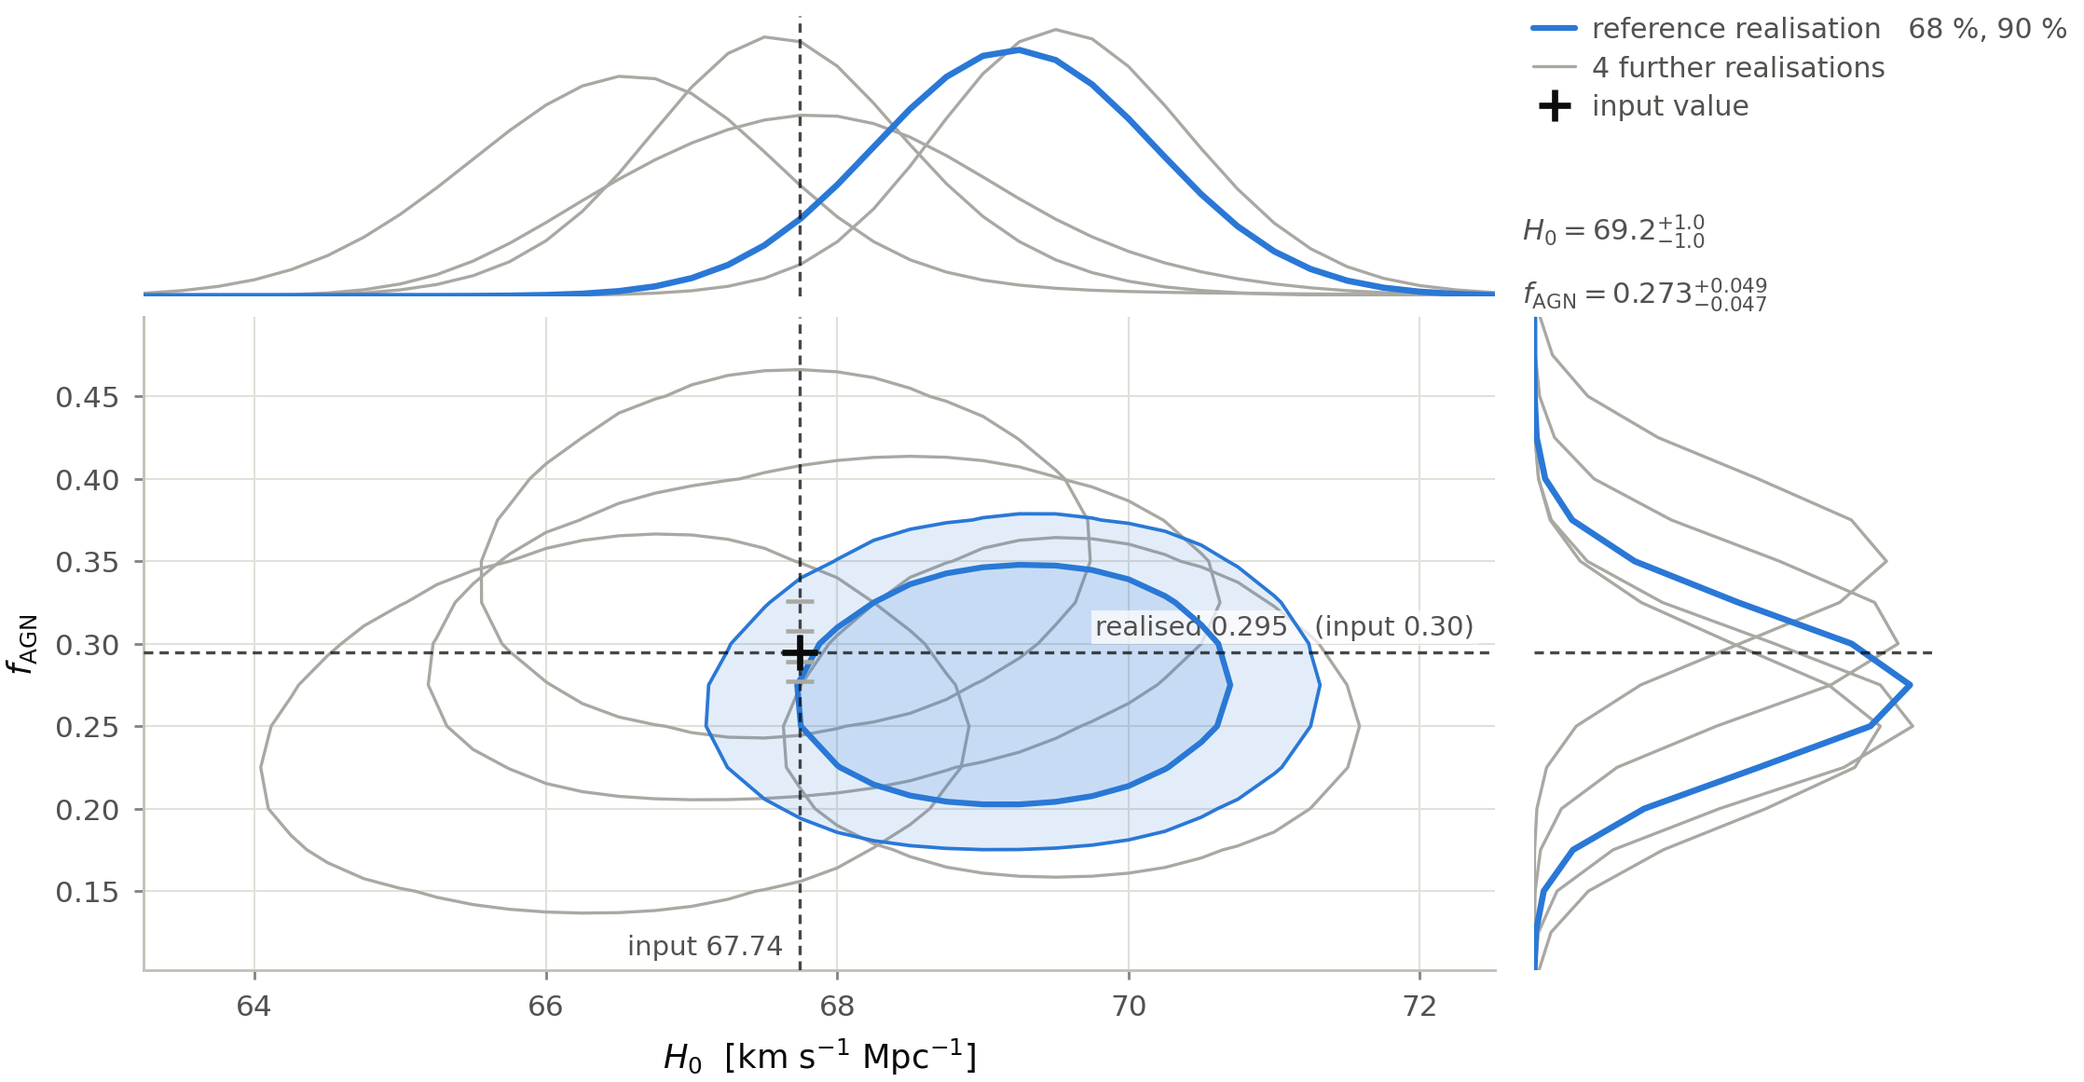
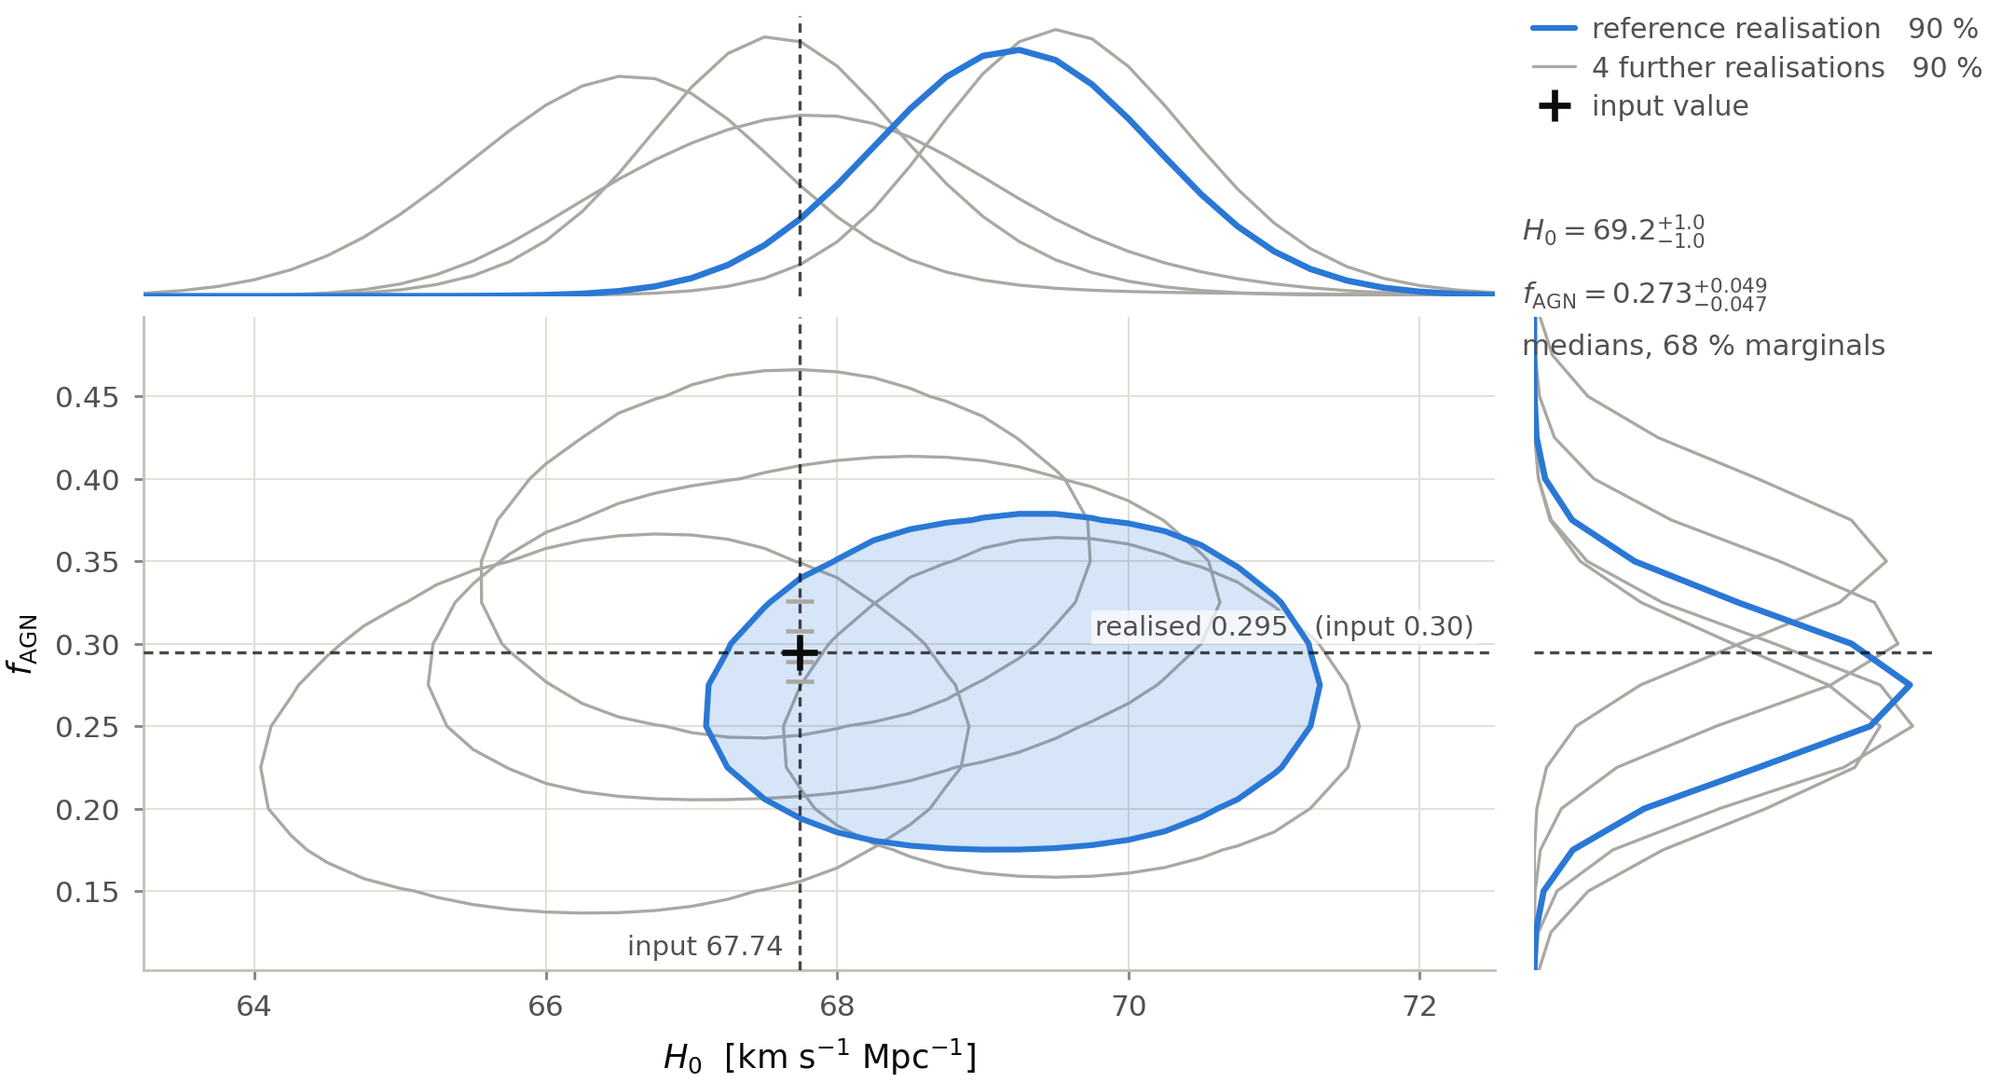
paper: every plotted interval to 90 per cent, and the AAS front matter
Figures 2, 3, 5 and 6 drew 68 per cent intervals against the project's rule
that everything plotted is 90 per cent; only the flux-limited figure complied.

- fig_single_tracer: the shaded galaxy band and its label are the 90 per cent
  interval; the caption quotes the new \HzeroGalNinety rather than the 68 per
  cent macro the text carries.
- fig_joint: one 90 per cent credible region instead of nested 68 and 90 per
  cent regions.  The medians and 68 per cent marginals stay, since the text
  quotes them, and the block now says which level it carries so it cannot be
  read off the contour beside it.
- fig_closure, fig_pure_tracer: per-realisation bars to 90 per cent, and the
  mean-offset bands from one standard error to the 90 per cent interval on the
  mean (Student's t on n - 1 degrees of freedom, 2.13 at five realisations,
  via the new figstyle.t_ppf95).  The mean offset is annotated without its
  standard error, which the captions and the text carry instead.
- captions updated to the levels actually drawn, verified against the renders;
  the width-ratio sentence now names the level its ratio is taken at.
- macro chain: \HzeroGalNinety added, audit re-derives 201 of 201.

Front matter: \shorttitle, acknowledgments, a data-availability statement,
\facility and \software, with dynesty and JAX added to the bibliography.  The
ORCID is left as a commented line for the author: it is recorded nowhere in
this repository and an identifier must not be guessed.

diff --git a/working/paper/scripts/fig_pure_tracer.py b/working/paper/scripts/fig_pure_tracer.py
@@ -28,7 +28,7 @@ below 3e-4 of its own peak and each curve keeps >= 99.99 % of its mass inside,
 so the window crops no support and spends the width on the part of the range
 the data occupy.
 
-Right panel: the same ten measurements as medians with their 68 % intervals,
+Right panel: the same ten measurements as medians with their 90 % intervals,
 against truth, with each tracer's five-realisation mean offset and standard
 error as a band.  The wide galaxy bar on the bimodal realisation is the honest
 rendering of an interval that has to span the gap between two modes.
@@ -111,16 +111,19 @@ def panel_posteriors(ax, curves):
 
 
 def panel_recovery(ax, curves, summary):
-    """Medians and 68 % intervals per realisation, with the mean-offset bands."""
+    """Medians and 90 % intervals per realisation, with the mean-offset bands."""
     x = np.arange(len(fs.SEEDS))
     for tracer, colour, dx, block in (("gal", GAL, -0.13, "closure_gal"),
                                       ("agn", AGN, +0.13, "closure_agn")):
         med = np.array([curves[tracer, s][2]["median"] for s in fs.SEEDS])
-        lo = med - np.array([curves[tracer, s][2]["ci68"][0] for s in fs.SEEDS])
-        hi = np.array([curves[tracer, s][2]["ci68"][1] for s in fs.SEEDS]) - med
+        lo = med - np.array([curves[tracer, s][2]["ci90"][0] for s in fs.SEEDS])
+        hi = np.array([curves[tracer, s][2]["ci90"][1] for s in fs.SEEDS]) - med
         c = summary[block]
-        ax.axhspan(fs.H0_TRUTH + c["mean_offset"] - c["sem_offset"],
-                   fs.H0_TRUTH + c["mean_offset"] + c["sem_offset"],
+        # 90 % interval on the mean offset (Student's t, n - 1 d.o.f.), so the
+        # band carries the same level as the per-realisation bars
+        half = fs.t_ppf95(len(fs.SEEDS)) * c["sem_offset"]
+        ax.axhspan(fs.H0_TRUTH + c["mean_offset"] - half,
+                   fs.H0_TRUTH + c["mean_offset"] + half,
                    color=colour, alpha=0.16, lw=0, zorder=2)
         ax.axhline(fs.H0_TRUTH + c["mean_offset"], color=colour, lw=0.9,
                    zorder=3)
@@ -145,18 +148,18 @@ def panel_recovery(ax, curves, summary):
     ax.legend(handles=[
         Line2D([], [], color=GAL, lw=1.3, marker="o", ms=4.0,
                markeredgecolor="white", markeredgewidth=0.7,
-               label=r"galaxies, median $\pm$ 68 %"),
+               label=r"galaxies, median and 90 %"),
         Line2D([], [], color=AGN, lw=1.3, marker="o", ms=4.0,
                markeredgecolor="white", markeredgewidth=0.7,
-               label=r"AGN, median $\pm$ 68 %"),
+               label=r"AGN, median and 90 %"),
         Line2D([], [], color=fs.TRUTH, lw=0.9, ls=(0, (3, 2)), alpha=0.75,
                label="input 67.74"),
         # matplotlib fills a multi-column legend column-major, so the two band
         # swatches are listed last to land opposite their own marker rows
         Patch(facecolor=GAL, alpha=0.16, edgecolor="none",
-              label=r"mean offset $\pm$ s.e."),
+              label=r"mean offset, 90 %"),
         Patch(facecolor=AGN, alpha=0.16, edgecolor="none",
-              label=r"mean offset $\pm$ s.e."),
+              label=r"mean offset, 90 %"),
     ], loc="upper left", ncol=2, columnspacing=1.0, fontsize=7.0,
         handlelength=1.4, labelspacing=0.28, borderaxespad=0.2)
 

diff --git a/working/paper/scripts/fig_joint.py b/working/paper/scripts/fig_joint.py
@@ -7,7 +7,7 @@
 Each h5 holds the log-likelihood on the same (H0, f) grid -- 201 x 41 cells on
 [50, 100] x [0, 1] -- evaluated with the K = 2 mixture on the complete galaxy
 and AGN catalogs.  Priors are flat on both axes, so the posterior is the
-exponentiated log-likelihood; the 68 % and 90 % regions are the
+exponentiated log-likelihood; the 90 % regions are the
 highest-posterior-density contours (fs.hpd_levels_2d).  The marginals are the
 same grid integrated along the other axis.  Quoted intervals and the realised
 AGN host fraction of each realisation are read from the result json rather than
@@ -81,13 +81,11 @@ def build():
                     linewidths=0.8, zorder=2)
 
     H0, fv, P = grids[fs.REF_SEED]
-    l68, l90 = fs.hpd_levels_2d(H0, fv, P)
-    axm.contourf(H0, fv, P.T, levels=[l90, l68], colors=[REF], alpha=0.13,
-                 zorder=3)
-    axm.contourf(H0, fv, P.T, levels=[l68, P.max() * 1.01], colors=[REF],
-                 alpha=0.26, zorder=3)
-    axm.contour(H0, fv, P.T, levels=[l90, l68], colors=REF,
-                linewidths=[0.9, 1.5], zorder=4)
+    _, l90 = fs.hpd_levels_2d(H0, fv, P)
+    axm.contourf(H0, fv, P.T, levels=[l90, P.max() * 1.01], colors=[REF],
+                 alpha=0.19, zorder=3)
+    axm.contour(H0, fv, P.T, levels=[l90], colors=REF, linewidths=1.5,
+                zorder=4)
 
     # ---- truth --------------------------------------------------------------
     axm.axvline(fs.H0_TRUTH, color=fs.TRUTH, lw=0.8, ls=(0, (3, 2)),
@@ -149,14 +147,17 @@ def build():
     # ---- key, in the corner the corner plot leaves empty ---------------------
     axk.legend(handles=[
         Line2D([], [], color=REF, lw=1.5,
-               label="reference realisation   68 %, 90 %"),
+               label="reference realisation   90 %"),
         Line2D([], [], color=fs.OTHER, lw=0.8,
-               label=f"{len(grids) - 1} further realisations"),
+               label=f"{len(grids) - 1} further realisations   90 %"),
         Line2D([], [], color=fs.INK, lw=0, marker="+", ms=8, mew=1.6,
                label="input value"),
     ], loc="upper left", fontsize=7.2, bbox_to_anchor=(-0.03, 1.04),
         handlelength=1.5, labelspacing=0.42, borderaxespad=0.0)
 
+    # The regions drawn are 90 %; the two numbers are the 68 % marginals the
+    # text quotes, so the block says which level it carries and cannot be read
+    # off the contour beside it.
     h0, ff = ref["H0"], ref["f"]
     axk.text(-0.03, 0.30,
              f"$H_0 = {h0['median']:.1f}"
@@ -164,7 +165,8 @@ def build():
              f"_{{-{h0['median'] - h0['ci68'][0]:.1f}}}$\n"
              f"$f_{{\\rm AGN}} = {ff['median']:.3f}"
              f"^{{+{ff['ci68'][1] - ff['median']:.3f}}}"
-             f"_{{-{ff['median'] - ff['ci68'][0]:.3f}}}$",
+             f"_{{-{ff['median'] - ff['ci68'][0]:.3f}}}$\n"
+             "medians, 68 % marginals",
              transform=axk.transAxes, ha="left", va="top", fontsize=7.4,
              color=fs.INK2, linespacing=1.9)
     return fig

diff --git a/working/paper/scripts/fig_closure.py b/working/paper/scripts/fig_closure.py
@@ -5,7 +5,7 @@
 
 Each point is one end-to-end realisation of the mock -- its own density field,
 its own catalogs, its own 1000 events -- analysed with the same joint fit; the
-bar is that realisation's own 68 % interval, read from the summary json
+bar is that realisation's own 90 % interval, read from the summary json
 (`seeds[].joint.H0` and `seeds[].joint.f_vs_realised`).  The band is the mean
 offset over the five realisations plus/minus its standard error, from
 `closure.joint_H0` and `closure.joint_f_vs_realised`; the same two numbers are
@@ -53,11 +53,14 @@ def build():
         -- so the mean-offset band tracks it rather than floating free.
         """
         med = np.array([r["joint"][key]["median"] for r in rows])
-        lo = med - np.array([r["joint"][key]["ci68"][0] for r in rows])
-        hi = np.array([r["joint"][key]["ci68"][1] for r in rows]) - med
+        lo = med - np.array([r["joint"][key]["ci90"][0] for r in rows])
+        hi = np.array([r["joint"][key]["ci90"][1] for r in rows]) - med
         c = summ["closure"][closure]
         ref = np.asarray(ref, float)
-        ax.fill_between(x, ref + c["mean"] - c["sem"], ref + c["mean"] + c["sem"],
+        # the band is the 90 % interval on the mean offset, from Student's t
+        # on n - 1 degrees of freedom: every band on the page is a 90 % one
+        half = fs.t_ppf95(c["n"]) * c["sem"]
+        ax.fill_between(x, ref + c["mean"] - half, ref + c["mean"] + half,
                         step="mid", color=ACC, alpha=0.11, lw=0, zorder=2)
         if centre:                    # a straight mean line only where the
             ax.step(x, ref + c["mean"], where="mid", color=ACC, lw=0.9,
@@ -65,7 +68,7 @@ def build():
         ax.errorbar(x, med, yerr=[lo, hi], fmt="o", ms=4.0, color=ACC,
                     ecolor=ACC, elinewidth=1.3, capsize=0, zorder=5,
                     markeredgecolor="white", markeredgewidth=0.7)
-        ax.annotate(f"mean offset  {c['mean']:{fmt}}  $\\pm$  {abs(c['sem']):{fmt[1:]}}",
+        ax.annotate(f"mean offset  {c['mean']:{fmt}}",
                     (0.5, 0.02), xycoords="axes fraction", ha="center",
                     va="bottom", fontsize=7.2, color=fs.INK2)
         return med
@@ -94,7 +97,7 @@ def build():
     ax.legend(handles=[
         Line2D([], [], color=ACC, lw=1.3, marker="o", ms=4.0,
                markeredgecolor="white", markeredgewidth=0.7,
-               label=r"joint fit, median $\pm$ 68 %"),
+               label=r"joint fit, median and 90 %"),
         Line2D([], [], color=fs.INK, lw=0, marker="_", ms=11, mew=1.5,
                label="realised fraction"),
         Line2D([], [], color=fs.MUTED, lw=0.8, ls=(0, (1, 2)),

diff --git a/working/paper/sections/results.tex b/working/paper/sections/results.tex
@@ -23,7 +23,7 @@ shows the normalised flat-prior posterior density $p(\Hz \mid d)$, in units
 of km$^{-1}$\,s\,Mpc, for the galaxy catalog (top) and the AGN catalog
 (bottom); the two panels share the \Hz\ axis, their density scales differ,
 and no curve is rescaled. The dashed line is the input value, and the shaded
-band is the galaxy analysis' 68\% interval, $\Hz = \HzeroGal$~\kmsmpc. The
+band is the galaxy analysis' 90\% interval, $\Hz = \HzeroGalNinety$~\kmsmpc. The
 AGN-only posterior has no interior maximum: it is still rising at the edge
 of the scanned range, so no interval is quoted for it. Neither analysis knows
 that the events were drawn from a mixture of the two catalogs.
@@ -58,18 +58,19 @@ that are not its to explain.
 \centering
 \includegraphics[width=\textwidth]{figures/fig_joint.pdf}
 \caption{Both parameters at once: the joint posterior on the two complete
-catalogs with the mixture weight free. Blue: the reference realisation's 68\%
-and 90\% highest-density credible regions, with the corresponding marginals
-in the side panels. Gray: the 90\% regions and marginals of four further
-realisations of the entire simulated universe. The cross marks the input
+catalogs with the mixture weight free. Blue: the reference realisation's 90\%
+highest-density credible region, with the corresponding marginals in the side
+panels. Gray: the 90\% regions and marginals of four further realisations of
+the entire simulated universe. The quoted medians and 68\% marginal intervals
+are the values the text carries. The cross marks the input
 expansion rate and the reference realisation's realised hosted fraction
 \FagnTruthReal\ (input value \FagnTruthPlanted; short gray ticks mark the other
 realisations' realised fractions). Axes span the union of the realisations'
 90\% regions, and the side panels share those axes and show the shapes of
 the marginal posteriors, without a density scale. The recovered $\Hz = \HzeroJoint$~\kmsmpc\ interval is a
-factor of \HzeroWidthRatio\ narrower than the galaxy-only interval of
-Figure~\ref{fig:single}: the second catalog sharpens the expansion rate
-rather than diluting it.
+factor of \HzeroWidthRatio\ narrower at 68\% than the galaxy catalog's
+alone (Figure~\ref{fig:single}): the second catalog sharpens the expansion
+rate rather than diluting it.
 \label{fig:joint}}
 \end{figure*}
 

diff --git a/working/paper/main.tex b/working/paper/main.tex
@@ -40,6 +40,10 @@
 AGN-hosted fraction of compact-binary mergers}
 
 \shorttitle{Dark sirens and the AGN-hosted fraction}
+% OWNER: AAS requires an ORCID for every author.  Yours is not recorded
+% anywhere in this repository, so it is left for you to fill in rather than
+% guessed: uncomment and complete the line below.
+% \author[0000-0000-0000-0000]{I.~Maga\~na Hernandez}
 \author{I.~Maga\~na Hernandez}
 \affiliation{Department of Physics, Carnegie Mellon University, Pittsburgh, PA
 15213, USA}
@@ -79,6 +83,34 @@ nuclei, Galaxy catalogs}
 \input{sections/results}
 \input{sections/validation}
 \input{sections/discussion}
+
+\begin{acknowledgments}
+The inference and the simulated catalogs were computed on GPU nodes under
+allocations phy220048p and phy230014p.
+% OWNER: add funding, collaborators and any allocation numbers you want named.
+\end{acknowledgments}
+
+\section*{Data availability}
+
+The simulated density field, host catalogs, event set and injection sets, and
+the posterior samples and likelihood grids behind every figure, are available
+from the author on reasonable request. The likelihood is evaluated with the
+\texttt{darksirens} package.
+% OWNER: replace with a Zenodo DOI if the data are deposited before submission.
+
+\facility{None: every measurement in this work is made on simulated data.}
+
+\software{%
+  \textsc{glass} \citep{Tessore2023},
+  HEALPix \citep{Gorski2005},
+  \texttt{dynesty} \citep{Speagle2020},
+  JAX \citep{Jax2018},
+  \texttt{numpy},
+  \texttt{scipy},
+  \texttt{astropy},
+  \texttt{h5py},
+  \texttt{matplotlib}%
+}
 
 \appendix
 \input{sections/appendix_pure_tracer}

diff --git a/working/paper/scripts/fig_single_tracer.py b/working/paper/scripts/fig_single_tracer.py
@@ -60,8 +60,8 @@ def build():
         ax.grid(axis="y", visible=False)
         fs.truth_line(ax, fs.H0_TRUTH, axis="x", label=None)
 
-    # ---- galaxies: a density with an interior maximum and a 68 % interval ---
-    bx, by = fs.ci_band(gal_x, gal_p, *gal["ci68"])
+    # ---- galaxies: a density with an interior maximum and a 90 % interval ---
+    bx, by = fs.ci_band(gal_x, gal_p, *gal["ci90"])
     axg.fill_between(bx, 0, by, color=GAL, alpha=0.16, lw=0, zorder=2)
     axg.plot(gal_x, gal_p, color=GAL, lw=1.6, zorder=4)
 
@@ -74,8 +74,8 @@ def build():
 
     # the one number the galaxy-only curve supports, labelled on the mark
     gal_lbl = (f"${gal['median']:.1f}"
-               f"^{{+{gal['ci68'][1] - gal['median']:.1f}}}"
-               f"_{{-{gal['median'] - gal['ci68'][0]:.1f}}}$")
+               f"^{{+{gal['ci90'][1] - gal['median']:.1f}}}"
+               f"_{{-{gal['median'] - gal['ci90'][0]:.1f}}}$")
     axg.annotate(gal_lbl, (gal_x[gal_p.argmax()], gal_p.max()),
                  textcoords="offset points", xytext=(6, 0), ha="left",
                  va="center", fontsize=7.4, color=fs.INK2)

diff --git a/working/paper/scripts/build_values.py b/working/paper/scripts/build_values.py
@@ -763,6 +763,12 @@ def sec_single():
         note="H0 from the galaxy catalog alone, median and 68% interval")
     add("HzeroGalMedian", s.get("gal_h0_median"), "%.1f", src=S_SINGLE,
         kind="result", note="the same, median only")
+    # the level Figure 2 shades, so the caption names the interval it draws
+    gal_run = load_json(A1 / "h0_gal_targeted.json")
+    add("HzeroGalNinety", asym(get(gal_run, "H0.median"),
+                               get(gal_run, "H0.ci90"), "%.1f"),
+        src=rel(A1 / "h0_gal_targeted.json"), kind="result",
+        note="H0 from the galaxy catalog alone, median and 90% interval")
     add("HzeroGalWidth", s.get("gal_h0_width"), "%.2f", src=S_SINGLE,
         kind="result", note="68% width of the galaxy-catalog H0 posterior, "
                             "km/s/Mpc")

diff --git a/working/paper/sections/validation.tex b/working/paper/sections/validation.tex
@@ -7,8 +7,8 @@
 \caption{The joint measurement repeated on \ClosureNseeds\ independent
 realisations of the simulated universe, each with its own density field,
 catalogs and \EvNobs\ events. Points and bars are per-realisation medians
-with 68\% intervals; the shaded band is the five-realisation mean offset with
-its standard error. Left: \Hz\ against the input value (mean offset
+with 90\% intervals; the shaded band is the 90\% interval on the
+five-realisation mean offset. Left: \Hz\ against the input value (mean offset
 $\ClosureHzero$~\kmsmpc). Right: \fagn\ against each realisation's own
 realised hosted fraction (black ticks; mean offset $\ClosureFagnReal$); the
 band steps because the reference differs per realisation, and the dotted line

diff --git a/working/paper/values/results_macros.tex b/working/paper/values/results_macros.tex
@@ -1,6 +1,6 @@
 % results_macros.tex -- GENERATED, DO NOT EDIT BY HAND
-% written 2026-08-24T15:20:38Z by scripts/build_values.py
-% 200 macros; dataset of record v3 + D3, seed 100
+% written 2026-08-24T15:43:09Z by scripts/build_values.py
+% 201 macros; dataset of record v3 + D3, seed 100
 
 \newcommand{\HzeroTruth}{67.74}
 \newcommand{\OmZeroTruth}{0.3075}
@@ -110,6 +110,7 @@
 \newcommand{\KdeWindow}{4\,096}
 \newcommand{\HzeroGal}{\ensuremath{69.9^{+1.7}_{-1.6}}}
 \newcommand{\HzeroGalMedian}{69.9}
+\newcommand{\HzeroGalNinety}{\ensuremath{69.9^{+3.0}_{-2.7}}}
 \newcommand{\HzeroGalWidth}{3.30}
 \newcommand{\HzeroGalCross}{70.0}
 \newcommand{\HzeroAgnRailMedian}{99.8}

diff --git a/working/paper/scripts/figstyle.py b/working/paper/scripts/figstyle.py
@@ -205,6 +205,18 @@ def ci_band(x, y, lo, hi):
     return xs, np.interp(xs, x, y)
 
 
+def t_ppf95(n):
+    """Student's t 95th percentile on ``n - 1`` degrees of freedom.
+
+    A mean offset over a handful of realisations gets a 90 % interval the same
+    way its own significance would be judged, so the bands on the recovery
+    panels carry the level the per-realisation bars carry.  At n = 5 this is
+    2.13, not the 1.64 a normal approximation would give.
+    """
+    from scipy.stats import t
+    return float(t.ppf(0.95, int(n) - 1))
+
+
 def scan_1d(path, grid_key):
     """(grid, log_likelihood) from one darksirens scan file."""
     import h5py

diff --git a/working/paper/sections/appendix_pure_tracer.tex b/working/paper/sections/appendix_pure_tracer.tex
@@ -27,7 +27,7 @@ its mass. The bimodal galaxy realisation
 (realisation \PureBimodalSeed, second mode at \PureBimodalModeLo~\kmsmpc\ at
 \PureBimodalHeight\ of the primary mode at \PureBimodalModeHi) is drawn as it
 is. Right: the same ten
-measurements as medians with 68\% intervals against the same input line,
+measurements as medians with 90\% intervals against the same input line,
 the two tracers offset slightly from each other at each realisation for
 legibility, with each tracer's five-realisation mean offset and its standard
 error as line and band. At equal event count, the catalog one hundred times

diff --git a/working/paper/scripts/audit_values.py b/working/paper/scripts/audit_values.py
@@ -429,6 +429,9 @@ def derive() -> dict[str, str]:
     # ---- single-tracer results
     e["HzeroGal"] = interval(single["gal_h0_ci"])
     e["HzeroGalMedian"] = fnum(single["gal_h0_median"], "%.1f")
+    galrun = read(A1 / "h0_gal_targeted.json")["H0"]
+    e["HzeroGalNinety"] = asymstr({"median": galrun["median"],
+                                   "ci68": galrun["ci90"]}, "%.1f")
     e["HzeroGalWidth"] = fnum(single["gal_h0_width"], "%.2f")
     e["HzeroGalCross"] = fnum(single["gal_h0_crosscheck_median"], "%.1f")
     e["HzeroAgnRailMedian"] = fnum(single["agn_grid_top_median"], "%.1f")
